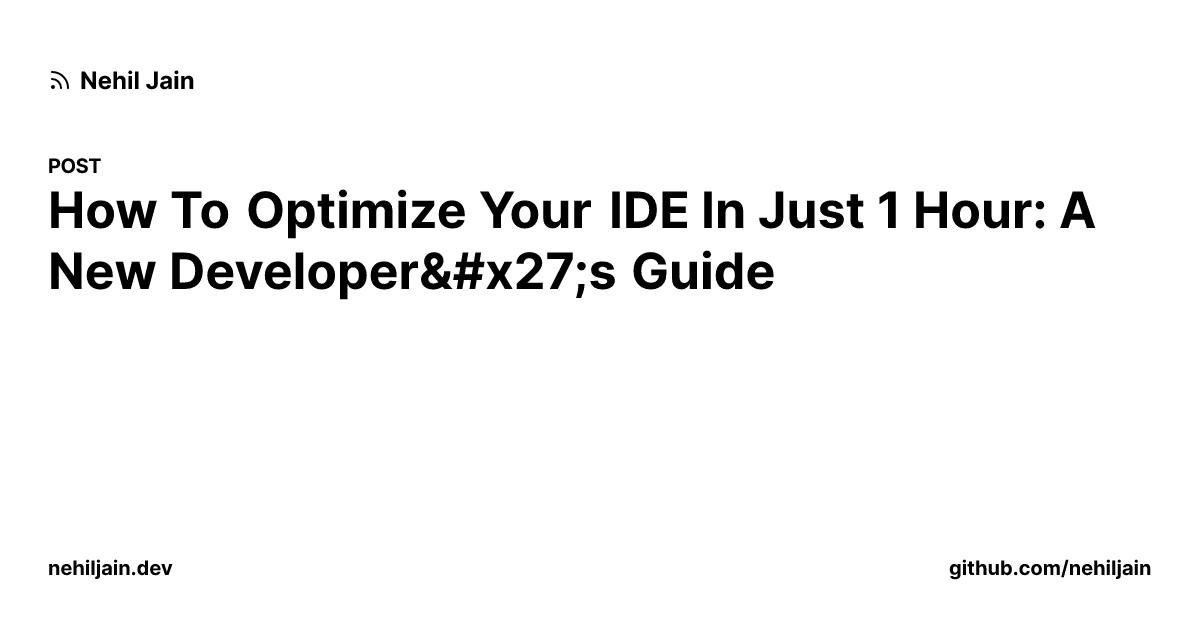
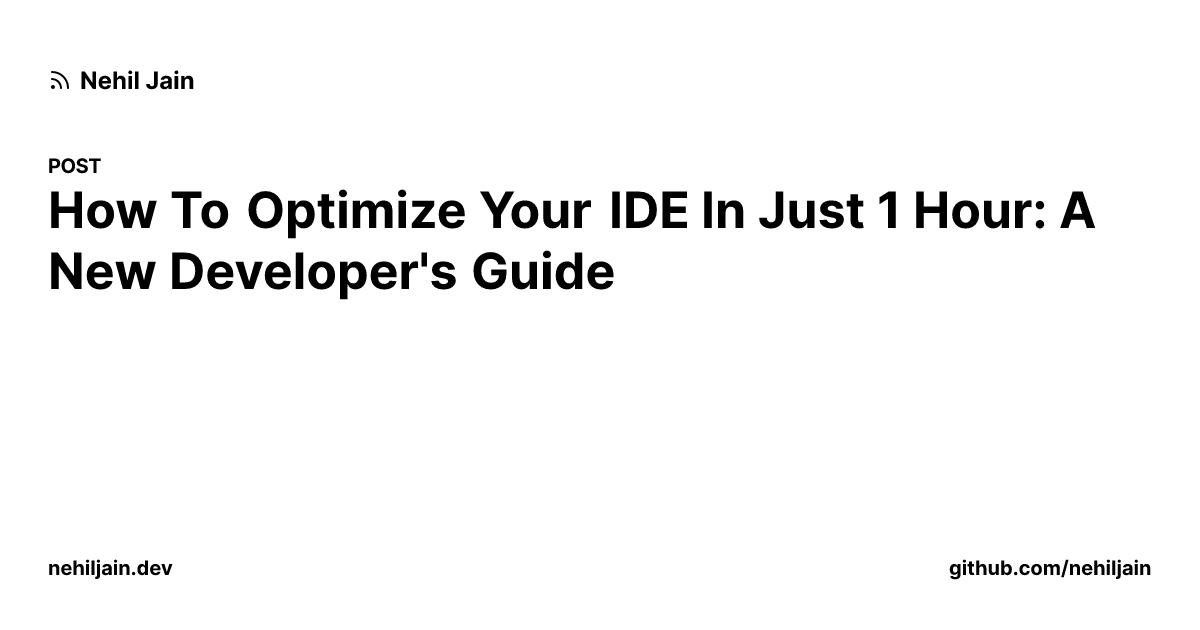
Render apostrophes and quotes in share cards as written
renderToStaticMarkup escapes text and satori-html keeps entities as literal text, so five live cards showed "&#x27;" in place of an apostrophe (e.g. "Notes From Alex Hormozi&#x27;s Videos"). Entities are now decoded in text nodes after parsing. CARD_VERSION in the cache key redraws every card once; only those five change.

Changed region(s): [[0.3392, 0.3921, 0.6475, 0.4825]]

diff --git a/lib/og-render.ts b/lib/og-render.ts
@@ -17,16 +17,48 @@ async function loadFont(): Promise<Buffer> {
   return fontDataCache;
 }
 
+// renderToStaticMarkup escapes text (an apostrophe becomes &#x27;) and
+// satori-html keeps entities as literal text, so "Hormozi's" rendered as
+// "Hormozi&#x27;s". Decode the entities React writes, in text nodes only and
+// after parsing, so a "<" in a title can't change the markup.
+const ENTITIES: Record<string, string> = {
+  '&amp;': '&',
+  '&lt;': '<',
+  '&gt;': '>',
+  '&quot;': '"',
+  '&#x27;': "'"
+};
+
+function decodeText(node: unknown): unknown {
+  if (typeof node === 'string') {
+    return node.replace(/&(?:amp|lt|gt|quot|#x27);/g, (m) => ENTITIES[m]);
+  }
+  if (Array.isArray(node)) return node.map(decodeText);
+  if (node && typeof node === 'object' && 'props' in node) {
+    const { props } = node as { props: { children?: unknown } };
+    if (props.children === undefined) return node;
+    return {
+      ...node,
+      props: { ...props, children: decodeText(props.children) }
+    };
+  }
+  return node;
+}
+
+// satori-html parses an HTML/JSX string with `tw=` attributes and produces
+// the VDOM satori expects. We render the React component to static markup
+// first, then hand the resulting string to satori-html.
+export function ogCardVdom(props: OgCardProps): unknown {
+  const markup = renderToStaticMarkup(React.createElement(OgCard, props));
+  return decodeText(html(markup));
+}
+
 export async function renderOgPng(props: OgCardProps): Promise<Buffer> {
   const fontData = await loadFont();
-  // satori-html parses an HTML/JSX string with `tw=` attributes and produces
-  // the VDOM satori expects. We render the React component to static markup
-  // first, then hand the resulting string to satori-html.
-  const markup = renderToStaticMarkup(React.createElement(OgCard, props));
   // satori-html's html() returns a VNode shaped exactly like satori's
   // expected input, but the types don't align with satori's React-flavored
   // signature. Cast through unknown to satisfy the compiler.
-  const vdom = html(markup) as unknown as React.ReactElement;
+  const vdom = ogCardVdom(props) as React.ReactElement;
   const svg = await satori(vdom, {
     width: 1200,
     height: 630,

diff --git a/tests/og-render.test.ts b/tests/og-render.test.ts
@@ -1,5 +1,30 @@
 import { describe, it, expect } from 'vitest';
-import { renderOgPng } from '@/lib/og-render';
+import { ogCardVdom, renderOgPng } from '@/lib/og-render';
+
+// All text in a satori VDOM, in order.
+function textOf(node: unknown): string {
+  if (typeof node === 'string') return node;
+  if (Array.isArray(node)) return node.map(textOf).join('');
+  if (node && typeof node === 'object' && 'props' in node) {
+    return textOf((node as { props: { children?: unknown } }).props.children);
+  }
+  return '';
+}
+
+describe('ogCardVdom', () => {
+  it('renders quotes, ampersands and angle brackets as written', () => {
+    const title = `Hormozi's "notes" & <tags> &amp;`;
+    const text = textOf(
+      ogCardVdom({
+        title,
+        footerUrl: 'nehiljain.dev',
+        githubUrl: 'github.com/nehiljain'
+      })
+    );
+    expect(text).toContain(title);
+    expect(text).not.toContain('&#x27;');
+  });
+});
 
 describe('renderOgPng', () => {
   it('returns a non-empty PNG buffer with correct magic bytes', async () => {
